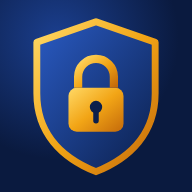
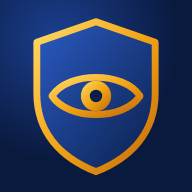
सतर्क: नवे नाव व लोगो, तीन टॅब (फरार / पाहिजे / निगराणी)
Claude-Session: https://claude.ai/code/session_01GTE1UU2HWHF7DCm75mL8rC

Changed region(s): [[0.25, 0.2812, 0.75, 0.6875]]

diff --git a/nondvahi/index.html b/nondvahi/index.html
@@ -5,14 +5,14 @@
 <meta name="viewport" content="width=device-width, initial-scale=1, viewport-fit=cover">
 <meta name="referrer" content="no-referrer">
 <meta name="robots" content="noindex, nofollow">
-<title>गोपनीय नोंदवही</title>
+<title>सतर्क</title>
 <meta name="theme-color" content="#0b1f4b">
 <link rel="manifest" href="manifest.webmanifest">
 <link rel="icon" href="icon-192.png">
 <link rel="apple-touch-icon" href="icon-192.png">
 <meta name="apple-mobile-web-app-capable" content="yes">
 <meta name="mobile-web-app-capable" content="yes">
-<meta name="apple-mobile-web-app-title" content="नोंदवही">
+<meta name="apple-mobile-web-app-title" content="सतर्क">
 <link rel="preconnect" href="https://fonts.googleapis.com">
 <link rel="stylesheet" href="https://fonts.googleapis.com/css2?family=Mukta:wght@400;500;600;700&display=swap">
 <script src="config.js"></script>
@@ -169,9 +169,9 @@ body.hid .veil{display:grid}
 <!-- लॉगिन -->
 <section class="lock" id="lockScr">
   <div class="box">
-    <svg class="seal" viewBox="0 0 120 120" aria-hidden="true"><defs><linearGradient id="sg" x1="0" y1="0" x2="1" y2="1"><stop offset="0" stop-color="#ffd966"/><stop offset=".5" stop-color="#f2a516"/><stop offset="1" stop-color="#c46a0a"/></linearGradient></defs><path d="M60 6L103 21V58C103 87 85 105 60 115C35 105 17 87 17 58V21Z" fill="#13306e" stroke="url(#sg)" stroke-width="5" stroke-linejoin="round"/><rect x="40" y="54" width="40" height="32" rx="6" fill="url(#sg)"/><path d="M47 54v-8a13 13 0 0 1 26 0v8" fill="none" stroke="url(#sg)" stroke-width="6"/><circle cx="60" cy="68" r="4.5" fill="#13306e"/><path d="M60 70v8" stroke="#13306e" stroke-width="4" stroke-linecap="round"/></svg>
-    <h1>गोपनीय नोंदवही</h1>
-    <p class="s">फरार / पाहिजे आरोपी • निगराणी बदमाश • हद्दपार</p>
+    <svg class="seal" viewBox="0 0 120 120" aria-hidden="true"><defs><linearGradient id="sg" x1="0" y1="0" x2="1" y2="1"><stop offset="0" stop-color="#ffd966"/><stop offset=".5" stop-color="#f2a516"/><stop offset="1" stop-color="#c46a0a"/></linearGradient></defs><path d="M60 6L103 21V58C103 87 85 105 60 115C35 105 17 87 17 58V21Z" fill="#13306e" stroke="url(#sg)" stroke-width="5" stroke-linejoin="round"/><path d="M28 60C40 42 80 42 92 60C80 78 40 78 28 60Z" fill="none" stroke="url(#sg)" stroke-width="5" stroke-linejoin="round"/><circle cx="60" cy="60" r="11" fill="url(#sg)"/><circle cx="60" cy="60" r="4.5" fill="#13306e"/></svg>
+    <h1>सतर्क</h1>
+    <p class="s">फरार • पाहिजे आरोपी • निगराणी बदमाश</p>
     <form id="loginF" autocomplete="off">
       <div id="urlBox" hidden>
         <label for="lUrl">सर्व्हर लिंक (Apps Script /exec)</label>
@@ -207,7 +207,7 @@ body.hid .veil{display:grid}
 <!-- ॲप -->
 <div class="wrap" id="appScr" hidden>
   <header class="top">
-    <div class="t"><b id="hTitle">गोपनीय नोंदवही</b><small id="hWho"></small></div>
+    <div class="t"><b id="hTitle">सतर्क</b><small id="hWho"></small></div>
     <button class="ib" id="lockBtn" title="आत्ताच लॉक करा" aria-label="लॉक करा"><svg viewBox="0 0 24 24" fill="none" stroke="currentColor" stroke-width="2" stroke-linecap="round"><rect x="5" y="11" width="14" height="10" rx="2"/><path d="M8 11V8a4 4 0 0 1 8 0v3"/></svg></button>
   </header>
   <main>

diff --git a/nondvahi/sw.js b/nondvahi/sw.js
@@ -1,5 +1,5 @@
 /* फक्त ॲपचे पान cache होते. सर्व्हरची उत्तरे (नोंदी) कधीच cache होत नाहीत: ती दुसऱ्या origin वर POST आहेत. */
-var C='nondvahi-v1';
+var C='nondvahi-v2';
 self.addEventListener('install',function(e){e.waitUntil(caches.open(C).then(function(c){return Promise.all(['./','./index.html','./config.js','./manifest.webmanifest','./icon-192.png','./icon-512.png'].map(function(u){return fetch(new Request(u,{cache:'reload'})).then(function(r){return r.ok?c.put(u,r):0}).catch(function(){})}))}));self.skipWaiting()});
 self.addEventListener('activate',function(e){e.waitUntil(caches.keys().then(function(k){return Promise.all(k.filter(function(x){return x!==C&&x.indexOf('nondvahi-v')===0}).map(function(x){return caches.delete(x)}))}));self.clients.claim()});
 self.addEventListener('fetch',function(e){if(e.request.method!=='GET')return;var u=new URL(e.request.url);if(u.origin!==location.origin)return;e.respondWith(caches.open(C).then(function(c){return c.match(e.request,{ignoreSearch:true}).then(function(hit){var net=fetch(e.request,{cache:'no-cache'}).then(function(r){if(r.ok)c.put(e.request,r.clone());return r});if(hit){e.waitUntil(net.catch(function(){}));return hit}return net.catch(function(){return c.match('./index.html')})})}))});
